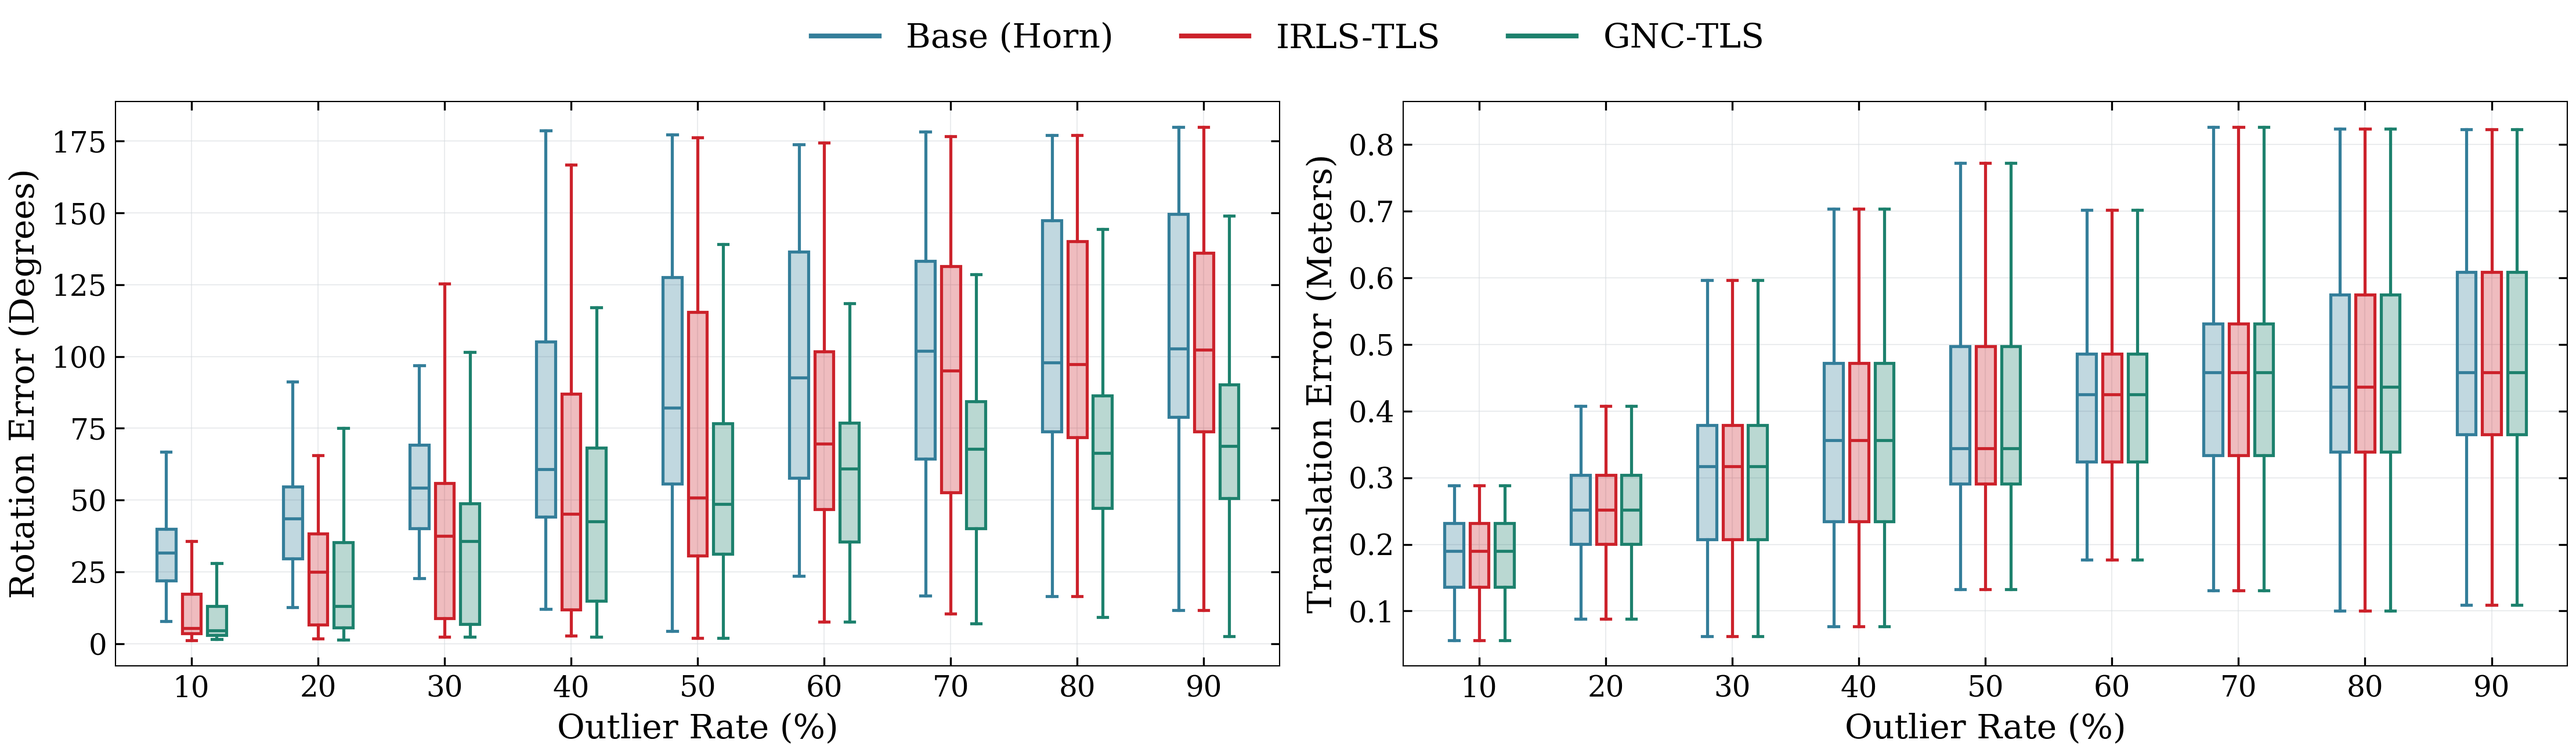
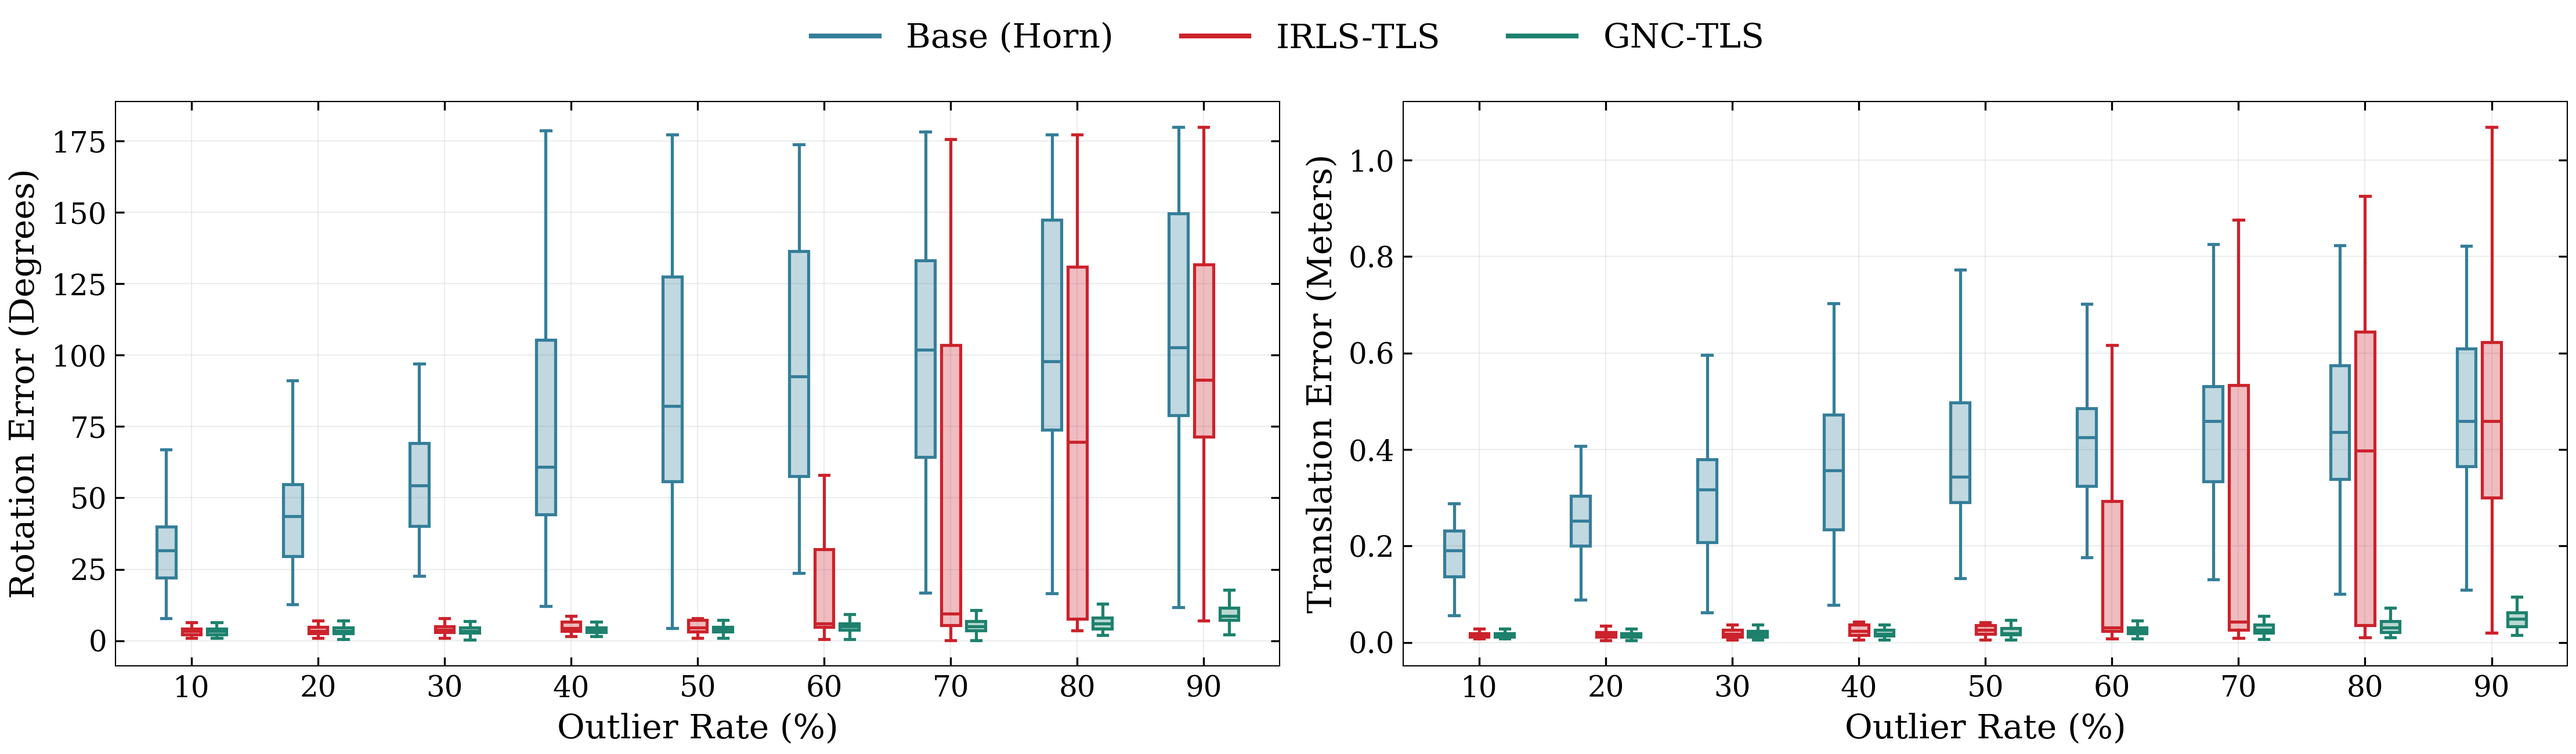
:bug: fix weighted least squares and update results

diff --git a/project/main.py b/project/main.py
@@ -84,10 +84,10 @@ def draw(pcd1, pcd2, base1, base2, data="bunny", line=True):
 data = "bunny"
 noise_std = 0.1
 outlier_ratio = 0.0
-outlier_scale = 4.0
+outlier_scale = 10.0
 solver = "base"
 robust_function = "tls"
-threshold_c = 0.2
+threshold_c = 0.3
 visualize = True
 
 
@@ -98,7 +98,7 @@ if data == "bunny":
     translation = np.random.RandomState(rng).rand(3) / np.sqrt(3)
     rotation = R.random(random_state=rng).as_matrix()
     src_reg, dst_reg, gt_reg = get_bunny_data(
-        num_point=200,
+        num_point=100,
         rotation=rotation,
         translation=translation,
         noise_std=noise_std,

diff --git a/project/src/registration.py b/project/src/registration.py
@@ -64,8 +64,8 @@ def registrationHorn(pcd1, pcd2, weight=None):
     - `rot` - Rotation matrix.
     - `t`   - Translation vector.
     """
-    zmpcd1, mean1 = get_zero_mean_point_cloud(pcd1)
-    zmpcd2, mean2 = get_zero_mean_point_cloud(pcd2)
+    zmpcd1, mean1 = get_zero_mean_point_cloud(pcd1, weight)
+    zmpcd2, mean2 = get_zero_mean_point_cloud(pcd2, weight)
 
     if weight is None:
         M = zmpcd2.T @ zmpcd1
